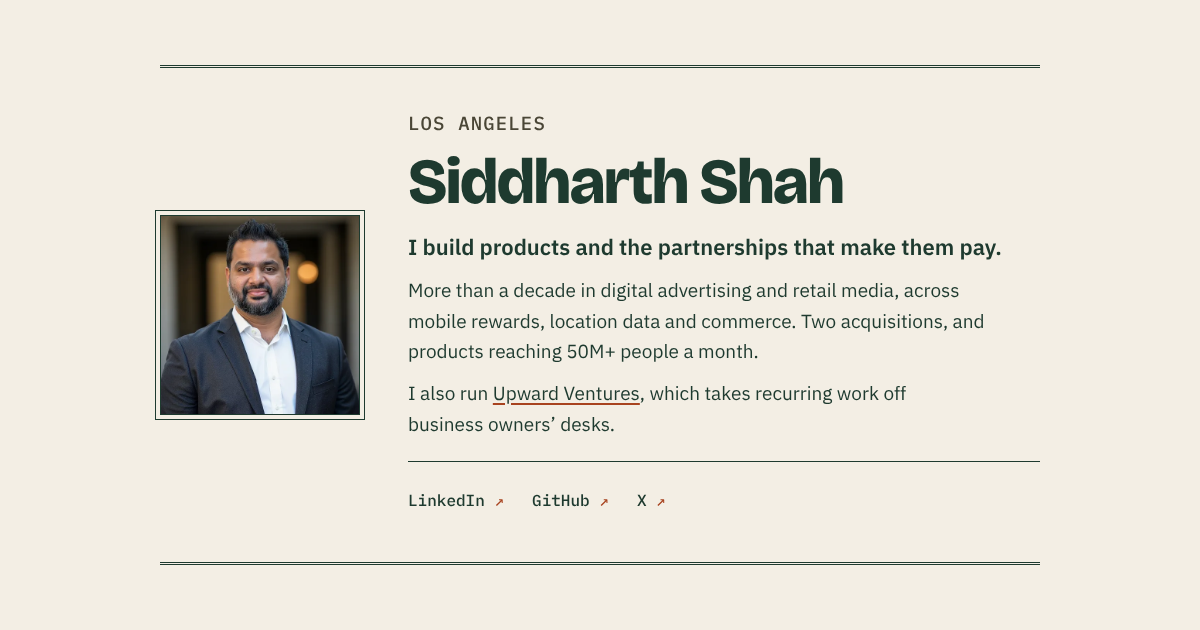
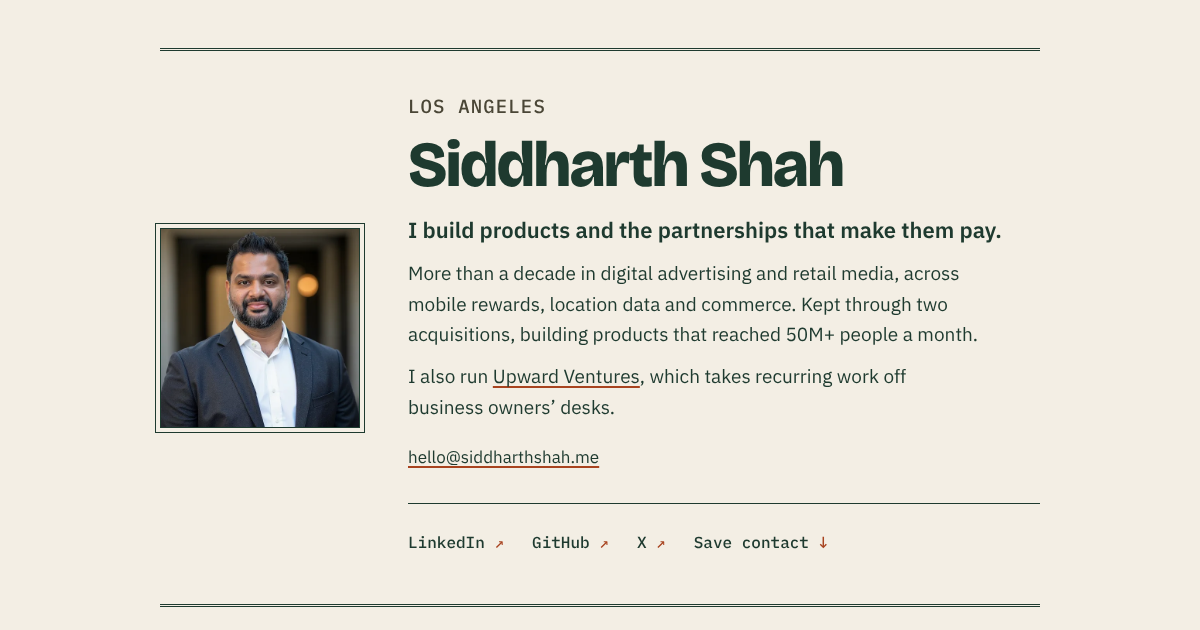
fix(site): say he was kept through two acquisitions
Two acquisitions alone read as if he did the buying; kept through says the acquirer chose to keep him, twice.

diff --git a/public/index.html b/public/index.html
@@ -10,7 +10,7 @@
 <meta property="og:description" content="Products and the partnerships that make them pay. More than a decade in digital advertising and retail media. Also runs Upward Ventures.">
 <meta property="og:type" content="profile">
 <meta property="og:url" content="https://siddharthshah.me/">
-<meta property="og:image" content="https://siddharthshah.me/brand/og.png?v=2">
+<meta property="og:image" content="https://siddharthshah.me/brand/og.png?v=3">
 <meta property="og:image:alt" content="Siddharth Shah: I build products and the partnerships that make them pay.">
 <meta property="og:site_name" content="Siddharth Shah">
 <meta property="og:image:width" content="1200">
@@ -88,7 +88,7 @@ h1{margin:0 0 18px;font-family:"Bricolage Grotesque",system-ui,sans-serif;font-w
 <p class="label">Los Angeles</p>
 <h1>Siddharth&nbsp;Shah</h1>
 <p class="lede">I build products and the partnerships that make them&nbsp;pay.</p>
-<p>More than a decade in digital advertising and retail media, across mobile rewards, location data and commerce. Two acquisitions, and products reaching 50M+ people a&nbsp;month.</p>
+<p>More than a decade in digital advertising and retail media, across mobile rewards, location data and commerce. Kept through two acquisitions, building products that reached 50M+ people a&nbsp;month.</p>
 <p>I also run <a class="uvx" href="https://upwardvx.com">Upward Ventures<span class="uv" aria-hidden="true"><svg viewBox="0 0 16 16"><circle cx="8" cy="8" r="6.6" fill="none" stroke="currentColor" stroke-width="1.6"/><path d="M5.4 10.6 10.4 5.6M6.9 5.6h3.5v3.5" fill="none" stroke="currentColor" stroke-width="1.6" stroke-linecap="square"/></svg></span></a>, which takes recurring work off business owners’&nbsp;desks.</p>
 <p class="ask"><a href="mailto:hello@siddharthshah.me">hello@siddharthshah.me</a></p>
 <ul class="links">
